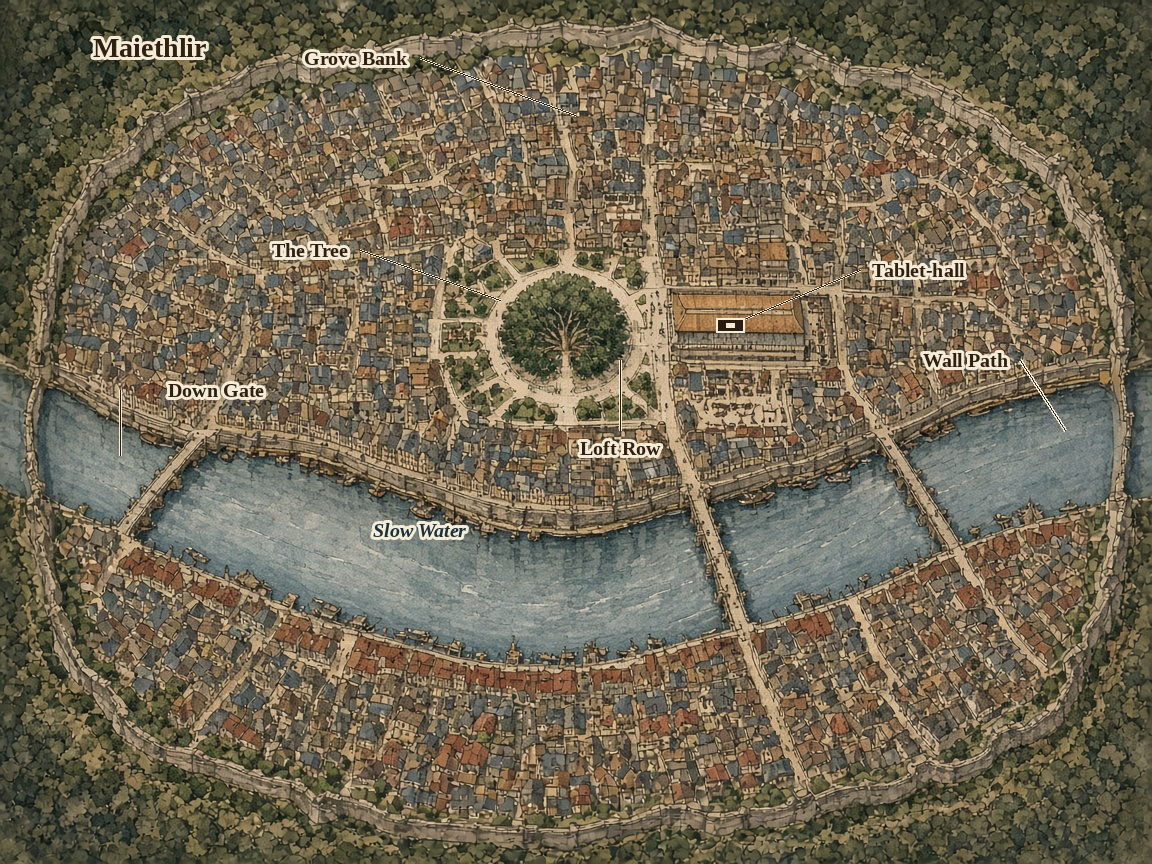
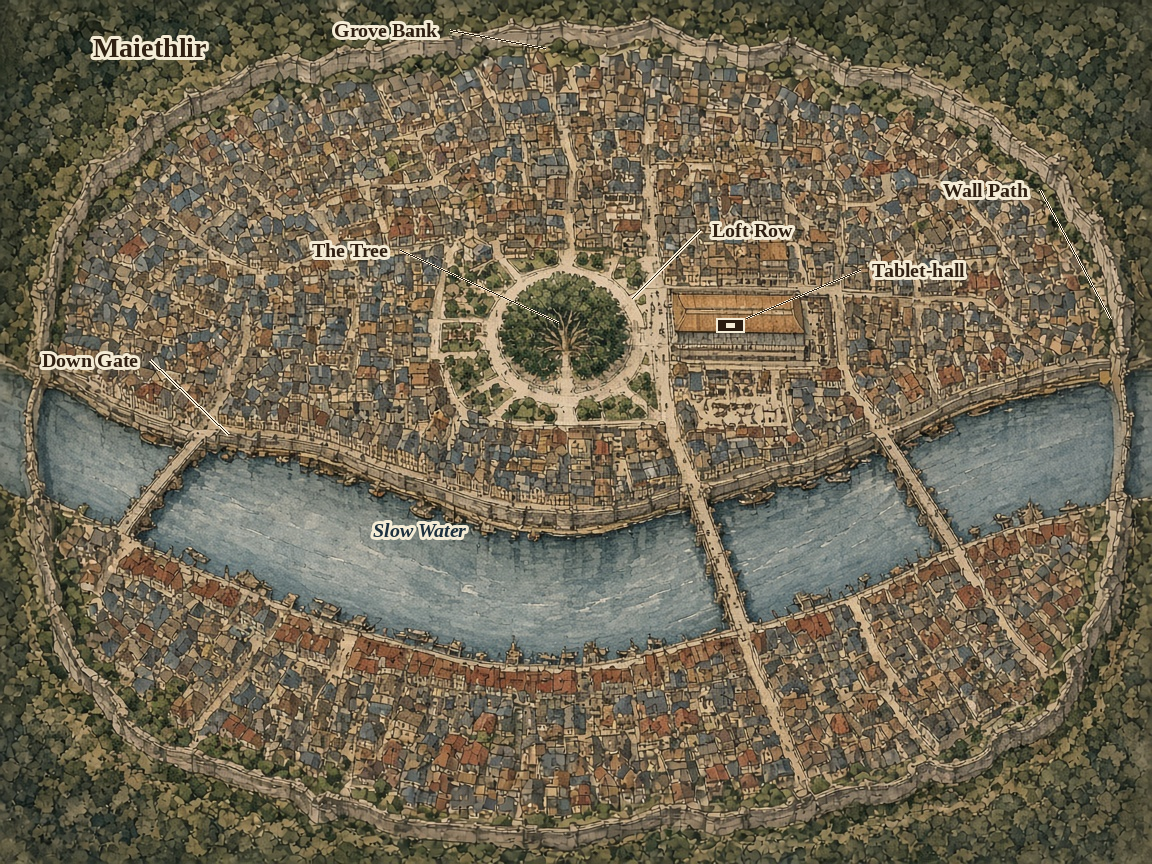
Seat the city-plate leaders on the features they name.
Down Gate meets the bridge, Wall Path is the east road, Loft Row is the street, and Grove Bank is the north road. On Orentel the Rise, the quays, and the White Note sit on the square, the piers, and the desk-house.

diff --git a/14 - Assets/Maps/label_orentel_city.py b/14 - Assets/Maps/label_orentel_city.py
@@ -99,36 +99,37 @@ def build() -> Image.Image:
     leader(ink, (540, 145), (400, 90))
     halo_text(ink, (388, 90), "Inland yard", place, TYPE, anchor="rm")
 
-    # Small square inside the roofs. The city around it is the larger half.
-    leader(ink, (360, 400), (250, 340))
-    halo_text(ink, (238, 340), "The Rise", place, TYPE, anchor="rm")
+    # Open pavement of the square, south of the Hand, so the leader stays off the canopy.
+    leader(ink, (430, 448), (300, 470))
+    halo_text(ink, (288, 470), "The Rise", place, TYPE, anchor="rm")
 
-    leader(ink, (400, 410), (480, 360))
-    halo_text(ink, (492, 360), "The Tree", place, TYPE, anchor="lm")
+    # The Hand in that square.
+    leader(ink, (388, 378), (500, 330))
+    halo_text(ink, (512, 330), "The Tree", place, TYPE, anchor="lm")
 
     # From the square down toward the berths.
     leader(ink, (560, 500), (480, 560))
     halo_text(ink, (468, 560), "The Drop", place, TYPE, anchor="rm")
 
-    # Inner landing, tucked against the city, west of the long berths.
-    quay_mark(ink, (640, 500))
-    leader(ink, (625, 492), (560, 440))
-    halo_text(ink, (548, 440), "Hallowquay", place, TYPE, anchor="rm")
+    # Inner landing, on the pier west of the long berths.
+    quay_mark(ink, (798, 478))
+    leader(ink, (782, 468), (680, 420))
+    halo_text(ink, (668, 420), "Hallowquay", place, TYPE, anchor="rm")
 
-    # Long south waterfront.
-    quay_mark(ink, (860, 640))
-    leader(ink, (875, 655), (980, 720))
-    halo_text(ink, (992, 720), "First Quay", place, TYPE, anchor="lm")
+    # Long south landing, on the pier. Not the water beside it.
+    quay_mark(ink, (900, 588))
+    leader(ink, (916, 604), (1000, 700))
+    halo_text(ink, (1012, 700), "First Quay", place, TYPE, anchor="lm")
 
-    # North-side quay of the harbour.
-    quay_mark(ink, (820, 270))
-    leader(ink, (835, 262), (940, 210))
-    halo_text(ink, (952, 210), "The Third", place, TYPE, anchor="lm")
+    # North-side quay, on the pier deck.
+    quay_mark(ink, (910, 232))
+    leader(ink, (926, 220), (1020, 168))
+    halo_text(ink, (1032, 168), "The Third", place, TYPE, anchor="lm")
 
-    # Desk on that north quay. Not a crown.
-    house_mark(ink, (900, 310))
-    leader(ink, (912, 302), (1020, 270))
-    halo_text(ink, (1032, 270), "White Note", place, TYPE, anchor="lm")
+    # Desk-house on the pier. The name stays on the sheet.
+    house_mark(ink, (966, 372))
+    leader(ink, (978, 360), (1000, 300))
+    halo_text(ink, (1012, 300), "White Note", place, TYPE, anchor="lm")
 
     halo_text(ink, (160, 200), "Chart mouth", place, TYPE_WATER)
     halo_text(ink, (980, 140), "Crossing-mouth", place, TYPE_WATER)

diff --git a/14 - Assets/Maps/label_maiethlir_city.py b/14 - Assets/Maps/label_maiethlir_city.py
@@ -89,30 +89,30 @@ def build() -> Image.Image:
 
     halo_text(ink, (150, 48), "Maiethlir", title, TYPE)
 
-    # Downstream, west. Nothing beyond this gate is Maiethvael's seat.
-    leader(ink, (120, 455), (120, 390))
-    halo_text(ink, (168, 390), "Down Gate", place, TYPE, anchor="lm")
+    # Downstream opening, where the road leaves the wall onto the bridge.
+    leader(ink, (228, 434), (150, 360))
+    halo_text(ink, (138, 360), "Down Gate", place, TYPE, anchor="rm")
 
-    # Upstream, east, where the river enters. Not the Noon Pass.
-    leader(ink, (1065, 430), (1020, 360))
-    halo_text(ink, (1008, 360), "Wall Path", place, TYPE, anchor="rm")
+    # Upstream road outside the wall, on the east bank. Not the river.
+    leader(ink, (1110, 318), (1040, 190))
+    halo_text(ink, (1028, 190), "Wall Path", place, TYPE, anchor="rm")
 
-    # North road from the wood. The wood is not a seat.
-    leader(ink, (575, 115), (420, 58))
-    halo_text(ink, (408, 58), "Grove Bank", place, TYPE, anchor="rm")
+    # The north road at the wall, where it leaves toward the wood.
+    leader(ink, (545, 48), (450, 30))
+    halo_text(ink, (438, 30), "Grove Bank", place, TYPE, anchor="rm")
 
     # Civic Hand on the north bank. No capital star.
-    leader(ink, (500, 300), (360, 250))
-    halo_text(ink, (348, 250), "The Tree", place, TYPE, anchor="rm")
+    leader(ink, (558, 322), (400, 250))
+    halo_text(ink, (388, 250), "The Tree", place, TYPE, anchor="rm")
 
     # Long hall one street east of the Tree.
     hall_mark(ink, (730, 325))
     leader(ink, (746, 318), (860, 270))
     halo_text(ink, (872, 270), "Tablet-hall", place, TYPE, anchor="lm")
 
-    # That street. The only district tension.
-    leader(ink, (620, 360), (620, 430))
-    halo_text(ink, (620, 448), "Loft Row", place, TYPE)
+    # The street between the Tree and the hall. Not the canopy.
+    leader(ink, (632, 298), (700, 230))
+    halo_text(ink, (712, 230), "Loft Row", place, TYPE, anchor="lm")
 
     # The wide reach inside the wall.
     halo_text(ink, (420, 530), "Slow Water", water, TYPE_WATER)
